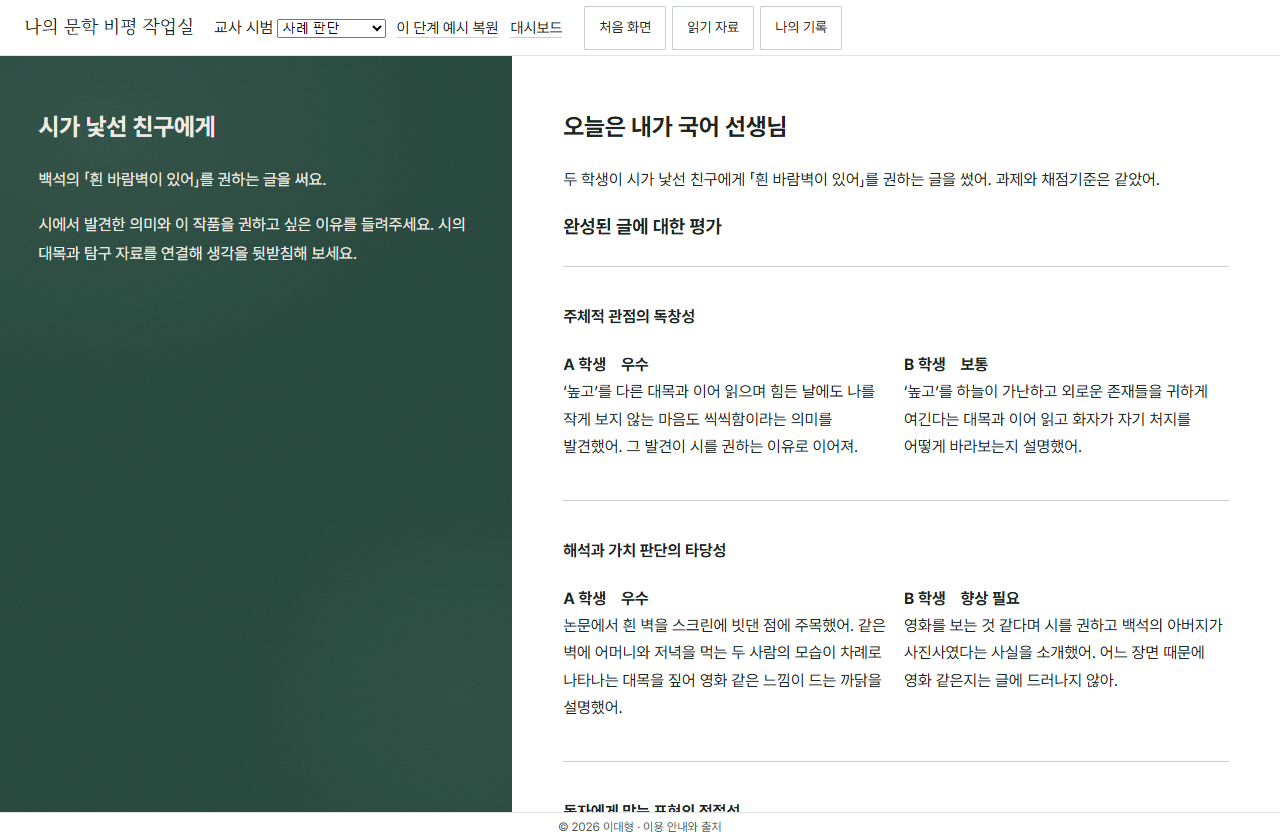
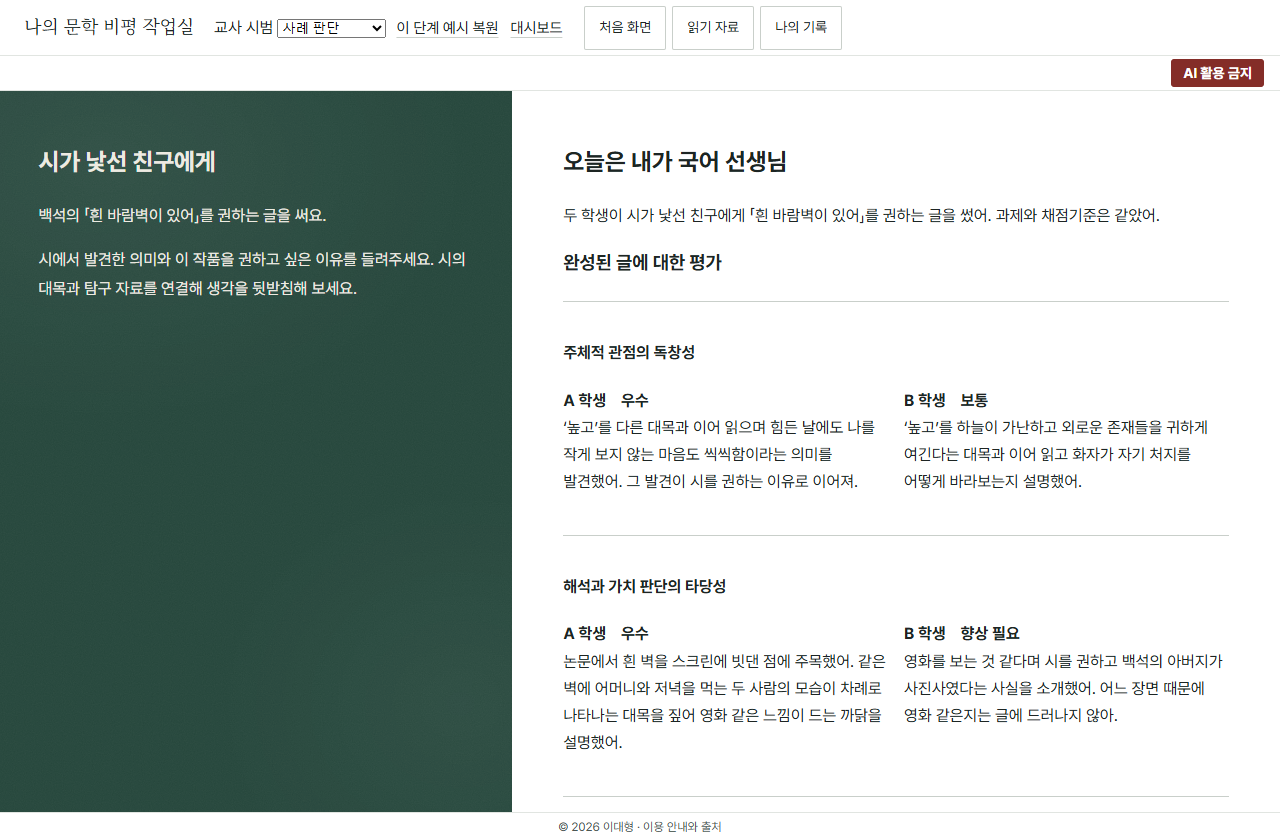
교사 AI 활용 규칙과 대시보드 작성 기록 안내

diff --git a/index.html b/index.html
@@ -1,10 +1,11 @@
 <!doctype html>
 <html lang="ko"><head><meta charset="utf-8"><meta name="viewport" content="width=device-width,initial-scale=1"><meta name="description" content="백석의 시를 읽고 친구에게 추천하는 비평문 쓰기. 학교별 템플릿과 교사용 설치 안내."><title>나의 문학 비평 작업실 · 교사용 배포판</title><link href="./style.css" rel="stylesheet"></head>
-<body><header><a href="#top">나의 문학 비평 작업실</a><nav aria-label="페이지 메뉴"><a href="#why">제작 배경</a><a href="#screens">화면 체험</a><a href="#lesson">수업 흐름</a><a href="#install">학교 설치</a><a href="#faq">자주 묻는 질문</a></nav></header>
+<body><header><a href="#top">나의 문학 비평 작업실</a><nav aria-label="페이지 메뉴"><a href="#why">제작 배경</a><a href="#screens">화면 체험</a><a href="#lesson">수업 흐름</a><a href="#records">작성 기록</a><a href="#install">학교 설치</a><a href="#faq">자주 묻는 질문</a></nav></header>
 <main id="top"><section class="hero"><div><p class="tag">교사용 배포판</p><h1>나의 문학<br>비평 작업실</h1><p class="lead">시가 낯선 친구에게 백석의 「흰 바람벽이 있어」를 권한다면, 어떤 대목을 함께 읽고 싶나요?</p><a class="primary" href="#install">우리 학교에 설치하기 ↓</a> <a class="text" href="#screens">학생 화면 둘러보기 ↓</a></div><figure><a href="./model-plan.png" aria-label="교사 시범 편집기 화면 크게 보기"><img src="./model-plan.png" width="1240" height="820" alt="글 설계하기 화면에서 ‘높고’에 관한 내 답과 앞서 고른 근거를 한눈에 살펴보는 교사 시범"></a><figcaption>교사 시범 화면 · 글 설계하기</figcaption></figure></section>
-<section id="why"><p class="tag">제작 배경</p><h2>‘높고’에서 멈춘 순간을<br>비평문의 첫 문장까지</h2><div class="columns"><p>“가난하고 외로운데 왜 높다고 했을까?” 시를 읽다 이런 물음이 생겨도, 막상 비평문을 쓰려면 무엇부터 말해야 할지 막막합니다. 작업실은 학생이 처음 품은 질문을 글 끝까지 가져갈 수 있도록 만들었습니다.</p><p>시구와 자료를 담을 때는 그 옆에 내 해석을 적고, 초고를 쓸 때는 그 근거를 곁에 펼쳐 둡니다. 교사는 완성된 글과 함께 학생이 무엇을 골랐고 어디에서 생각을 바꿨는지도 살펴볼 수 있습니다.</p></div><h3>수업에서 출발한 세 가지 설계</h3><ol class="flow"><li><h3>읽은 자리로 돌아가기</h3><p>쓰다가 생각이 막히면 시와 자료를 다시 펼칩니다. 앞서 골라 둔 대목이 자기 판단과 어울리는지 확인할 수 있습니다.</p></li><li><h3>판단 기준 먼저 나누기</h3><p>글을 쓰기 전에 같은 예시를 채점해 봅니다. 서로 다르게 읽은 문장을 짚으며 ‘근거가 분명하다’는 말의 뜻을 맞춰 갑니다.</p></li><li><h3>고쳐 쓴 이유 남기기</h3><p>AI에게 묻기 전에 어떤 독자의 반응이 필요한지 정합니다. 받은 조언 중 무엇을 받아들일지는 글쓴이가 결정합니다.</p></li></ol></section><section id="screens"><h2>학생과 교사의 화면을 둘러보세요</h2><p>보고 싶은 활동을 고르세요. 학교용 템플릿에 수업용 예시를 넣어 실행한 화면입니다. 이미지를 누르면 크게 볼 수 있습니다.</p><div class="picker" aria-label="미리 볼 활동"><a href="#shot-prep">평가기준 읽기</a><a href="#shot-case">사례 판단</a><a href="#shot-rule">AI 활용 규칙</a><a href="#shot-ask">질문 만들기</a><a href="#shot-find">근거 찾기</a><a href="#shot-plan">글 설계하기</a><a href="#shot-draft">초고 쓰기</a><a href="#shot-feedback">AI에게 묻기</a><a href="#shot-revise">고쳐쓰기</a><a href="#shot-teacher">교사 대시보드</a></div><article class="shot" id="shot-prep"><div><p class="tag">평가기준 읽기</p><h3>어떤 글을 쓰면 친구에게 시가 잘 전해질까요?</h3><p>학생은 세 평가요소를 자기 말로 풀어 쓴 뒤 선생님의 기준과 비교합니다. 예시 글의 수준을 판단하고, 친구와 판단이 갈린 대목을 이야기합니다.</p></div><figure><a href="screens/prep.png"><img loading="lazy" src="screens/prep.png" width="1280" height="840" alt="평가기준 읽기 실제 화면 크게 보기"></a></figure></article><article class="shot" id="shot-case"><div><p class="tag">사례 판단</p><h3>두 글의 점수를 정하려면 무엇을 더 알고 싶나요?</h3><p>가상 학생 두 명의 글과 작성 기록을 읽고 어느 쪽에 더 높은 점수를 줄지 의논합니다. 같은 기록을 보고도 판단이 달라질 수 있는 까닭을 묻습니다.</p></div><figure><a href="screens/case.png"><img loading="lazy" src="screens/case.png" width="1280" height="840" alt="사례 판단 실제 화면 크게 보기"></a></figure></article><article class="shot" id="shot-rule"><div><p class="tag">AI 활용 규칙</p><h3>내가 직접 할 일은 어디까지일까요?</h3><p>앞에서 나눈 사례를 떠올리며 자기 규칙을 씁니다. 시구를 고르는 일, 질문을 만드는 일, 초고에 대해 조언을 구하는 일을 나누어 생각해 봅니다.</p></div><figure><a href="screens/rule.png"><img loading="lazy" src="screens/rule.png" width="1280" height="840" alt="AI 활용 규칙 실제 화면 크게 보기"></a></figure></article><article class="shot" id="shot-ask"><div><p class="tag">질문 만들기</p><h3>왜 ‘가난하고 외롭고’ 다음에 ‘높고’가 올까요?</h3><p>마음에 걸린 시어를 고르고 그 말이 궁금한 까닭을 적습니다. 시범 글을 띄워 ‘높고’를 가리고 읽었을 때와 다시 넣어 읽었을 때의 느낌을 나눠 보세요.</p></div><figure><a href="screens/ask.png"><img loading="lazy" src="screens/ask.png" width="1280" height="840" alt="질문 만들기 실제 화면 크게 보기"></a></figure></article><article class="shot" id="shot-find"><div><p class="tag">근거 찾기</p><h3>내 질문을 들고 어떤 자료를 읽을까요?</h3><p>시에서 찾은 대목을 다른 작품이나 연구 자료와 함께 읽습니다. 글에 쓸 부분을 담고, 이 대목이 내 질문과 어떻게 이어지는지 기록합니다.</p></div><figure><a href="screens/find.png"><img loading="lazy" src="screens/find.png" width="1280" height="840" alt="근거 찾기 실제 화면 크게 보기"></a></figure></article><article class="shot" id="shot-plan"><div><p class="tag">글 설계하기</p><h3>어떤 대목이 내 해석을 뒷받침하나요?</h3><p>시와 자료에서 담아 둔 근거를 펼쳐 보고 내 답과 이어지는 것을 고릅니다. 다른 자료를 읽고 처음 생각이 달라졌다면, 달라진 까닭도 글의 한 갈래가 됩니다.</p></div><figure><a href="screens/plan.png"><img loading="lazy" src="screens/plan.png" width="1280" height="840" alt="글 설계하기 실제 화면 크게 보기"></a></figure></article><article class="shot" id="shot-draft"><div><p class="tag">초고 쓰기</p><h3>시가 낯선 친구에게 첫 문장을 어떻게 건넬까요?</h3><p>한쪽에 글 설계를 펼쳐 두고 다른 쪽에서 초고를 씁니다. 친구에게 들려주고 싶은 대목, 그 대목을 읽은 내 생각, 이 시를 권하고 싶은 이유를 연결합니다.</p></div><figure><a href="screens/draft.png"><img loading="lazy" src="screens/draft.png" width="1280" height="840" alt="초고 쓰기 실제 화면 크게 보기"></a></figure></article><article class="shot" id="shot-feedback"><div><p class="tag">AI에게 묻기</p><h3>친구가 내 글의 어디에서 멈출까요?</h3><p>초고를 스스로 평가한 뒤 AI에게 받고 싶은 피드백을 정합니다. 요청과 초고를 복사해 사용할 수 있어, 글쓴이가 어떤 조언을 구할지 먼저 결정합니다.</p></div><figure><a href="screens/feedback.png"><img loading="lazy" src="screens/feedback.png" width="1280" height="840" alt="AI에게 묻기 실제 화면 크게 보기"></a></figure></article><article class="shot" id="shot-revise"><div><p class="tag">고쳐쓰기</p><h3>어느 문장을 왜 바꿨나요?</h3><p>독자의 질문을 참고해 문장을 고치고 수정한 이유를 남깁니다. 마지막에는 초고에 사용한 평가기준을 다시 펼쳐 자기 글을 살핍니다.</p></div><figure><a href="screens/revise.png"><img loading="lazy" src="screens/revise.png" width="1280" height="840" alt="고쳐쓰기 실제 화면 크게 보기"></a></figure></article><article class="shot" id="shot-teacher"><div><p class="tag">교사 대시보드</p><h3>오늘 누구와 어떤 이야기를 나눌까요?</h3><p>학급 현황에서 학생의 작업 단계를 살피고 개별 글을 열어 봅니다. ‘학생 화면으로 시범 쓰기’를 누르면 교사용 예시로 수업 장면을 직접 보여 줄 수 있습니다.</p></div><figure><a href="screens/teacher.png"><img loading="lazy" src="screens/teacher.png" width="1280" height="840" alt="교사 대시보드 실제 화면 크게 보기"></a></figure></article></section><section id="lesson"><h2>학생은 이렇게 씁니다</h2><ol class="flow"><li><h3>평가기준 함께 읽기</h3><p>세 평가요소의 뜻을 적고 예시 글에 수준을 매깁니다. 두 가상 학생의 작성 기록을 보고 자신의 AI 활용 규칙도 정합니다.</p></li><li><h3>시어에서 근거로</h3><p>마음에 남은 시어로 질문을 만들고 시와 탐구 자료에서 근거를 모읍니다. 글 설계에서 앞서 고른 대목과 메모를 다시 펼쳐 자기 답을 씁니다.</p></li><li><h3>초고에서 고쳐쓰기로</h3><p>초고를 자기평가하고 AI에게 물을 내용을 다듬습니다. 버튼을 누르면 요청과 초고가 함께 복사됩니다. 피드백을 참고해 자기 말로 고친 뒤 다시 평가하고 제출합니다.</p></li></ol>
+<section id="why"><p class="tag">제작 배경</p><h2>‘높고’에서 멈춘 순간을<br>비평문의 첫 문장까지</h2><div class="columns"><p>“가난하고 외로운데 왜 높다고 했을까?” 시를 읽다 이런 물음이 생겨도, 막상 비평문을 쓰려면 무엇부터 말해야 할지 막막합니다. 작업실은 학생이 처음 품은 질문을 글 끝까지 가져갈 수 있도록 만들었습니다.</p><p>시구와 자료를 담을 때는 그 옆에 내 해석을 적고, 초고를 쓸 때는 그 근거를 곁에 펼쳐 둡니다. 교사는 완성된 글과 함께 학생이 무엇을 골랐고 어디에서 생각을 바꿨는지도 살펴볼 수 있습니다.</p></div><h3>수업에서 출발한 세 가지 설계</h3><ol class="flow"><li><h3>읽은 자리로 돌아가기</h3><p>쓰다가 생각이 막히면 시와 자료를 다시 펼칩니다. 앞서 골라 둔 대목이 자기 판단과 어울리는지 확인할 수 있습니다.</p></li><li><h3>판단 기준 먼저 나누기</h3><p>글을 쓰기 전에 같은 예시를 채점해 봅니다. 서로 다르게 읽은 문장을 짚으며 ‘근거가 분명하다’는 말의 뜻을 맞춰 갑니다.</p></li><li><h3>고쳐 쓴 이유 남기기</h3><p>AI에게 묻기 전에 어떤 독자의 반응이 필요한지 정합니다. 받은 조언 중 무엇을 받아들일지는 글쓴이가 결정합니다.</p></li></ol></section><section id="screens"><h2>학생과 교사의 화면을 둘러보세요</h2><p>보고 싶은 활동을 고르세요. 학교용 템플릿에 수업용 예시를 넣어 실행한 화면입니다. 이미지를 누르면 크게 볼 수 있습니다.</p><div class="picker" aria-label="미리 볼 활동"><a href="#shot-prep">평가기준 읽기</a><a href="#shot-case">사례 판단</a><a href="#shot-rule">AI 활용 규칙</a><a href="#shot-ask">질문 만들기</a><a href="#shot-find">근거 찾기</a><a href="#shot-plan">글 설계하기</a><a href="#shot-draft">초고 쓰기</a><a href="#shot-feedback">AI에게 묻기</a><a href="#shot-revise">고쳐쓰기</a><a href="#shot-teacher">교사 대시보드</a></div><article class="shot" id="shot-prep"><div><p class="tag">평가기준 읽기</p><h3>어떤 글을 쓰면 친구에게 시가 잘 전해질까요?</h3><p>학생은 세 평가요소를 자기 말로 풀어 쓴 뒤 선생님의 기준과 비교합니다. 예시 글의 수준을 판단하고, 친구와 판단이 갈린 대목을 이야기합니다.</p></div><figure><a href="screens/prep.png"><img loading="lazy" src="screens/prep.png" width="1280" height="840" alt="평가기준 읽기 실제 화면 크게 보기"></a></figure></article><article class="shot" id="shot-case"><div><p class="tag">사례 판단</p><h3>두 글의 점수를 정하려면 무엇을 더 알고 싶나요?</h3><p>가상 학생 두 명의 글과 작성 기록을 읽고 어느 쪽에 더 높은 점수를 줄지 의논합니다. 같은 기록을 보고도 판단이 달라질 수 있는 까닭을 묻습니다.</p></div><figure><a href="screens/case.png"><img loading="lazy" src="screens/case.png" width="1280" height="840" alt="사례 판단 실제 화면 크게 보기"></a></figure></article><article class="shot" id="shot-rule"><div><p class="tag">AI 활용 규칙</p><h3>내가 직접 할 일은 어디까지일까요?</h3><p>AI를 쓸 수 있는 시점과 부정행위에 관한 교사의 규칙을 읽고, 그 범위에서 자기 약속을 씁니다. 시구를 고르는 일, 질문을 만드는 일, 초고에 대해 조언을 구하는 일을 나누어 생각해 봅니다.</p></div><figure><a href="screens/rule.png"><img loading="lazy" src="screens/rule.png" width="1280" height="840" alt="AI 활용 규칙 실제 화면 크게 보기"></a></figure></article><article class="shot" id="shot-ask"><div><p class="tag">질문 만들기</p><h3>왜 ‘가난하고 외롭고’ 다음에 ‘높고’가 올까요?</h3><p>마음에 걸린 시어를 고르고 그 말이 궁금한 까닭을 적습니다. 시범 글을 띄워 ‘높고’를 가리고 읽었을 때와 다시 넣어 읽었을 때의 느낌을 나눠 보세요.</p></div><figure><a href="screens/ask.png"><img loading="lazy" src="screens/ask.png" width="1280" height="840" alt="질문 만들기 실제 화면 크게 보기"></a></figure></article><article class="shot" id="shot-find"><div><p class="tag">근거 찾기</p><h3>내 질문을 들고 어떤 자료를 읽을까요?</h3><p>시에서 찾은 대목을 다른 작품이나 연구 자료와 함께 읽습니다. 글에 쓸 부분을 담고, 이 대목이 내 질문과 어떻게 이어지는지 기록합니다.</p></div><figure><a href="screens/find.png"><img loading="lazy" src="screens/find.png" width="1280" height="840" alt="근거 찾기 실제 화면 크게 보기"></a></figure></article><article class="shot" id="shot-plan"><div><p class="tag">글 설계하기</p><h3>어떤 대목이 내 해석을 뒷받침하나요?</h3><p>시와 자료에서 담아 둔 근거를 펼쳐 보고 내 답과 이어지는 것을 고릅니다. 다른 자료를 읽고 처음 생각이 달라졌다면, 달라진 까닭도 글의 한 갈래가 됩니다.</p></div><figure><a href="screens/plan.png"><img loading="lazy" src="screens/plan.png" width="1280" height="840" alt="글 설계하기 실제 화면 크게 보기"></a></figure></article><article class="shot" id="shot-draft"><div><p class="tag">초고 쓰기</p><h3>시가 낯선 친구에게 첫 문장을 어떻게 건넬까요?</h3><p>한쪽에 글 설계를 펼쳐 두고 다른 쪽에서 초고를 씁니다. 친구에게 들려주고 싶은 대목, 그 대목을 읽은 내 생각, 이 시를 권하고 싶은 이유를 연결합니다.</p></div><figure><a href="screens/draft.png"><img loading="lazy" src="screens/draft.png" width="1280" height="840" alt="초고 쓰기 실제 화면 크게 보기"></a></figure></article><article class="shot" id="shot-feedback"><div><p class="tag">AI에게 묻기</p><h3>친구가 내 글의 어디에서 멈출까요?</h3><p>초고를 스스로 평가한 뒤 AI에게 받고 싶은 피드백을 정합니다. 요청과 초고를 복사해 사용할 수 있어, 글쓴이가 어떤 조언을 구할지 먼저 결정합니다.</p></div><figure><a href="screens/feedback.png"><img loading="lazy" src="screens/feedback.png" width="1280" height="840" alt="AI에게 묻기 실제 화면 크게 보기"></a></figure></article><article class="shot" id="shot-revise"><div><p class="tag">고쳐쓰기</p><h3>어느 문장을 왜 바꿨나요?</h3><p>독자의 질문을 참고해 문장을 고치고 수정한 이유를 남깁니다. 마지막에는 초고에 사용한 평가기준을 다시 펼쳐 자기 글을 살핍니다.</p></div><figure><a href="screens/revise.png"><img loading="lazy" src="screens/revise.png" width="1280" height="840" alt="고쳐쓰기 실제 화면 크게 보기"></a></figure></article><article class="shot" id="shot-teacher"><div><p class="tag">교사 대시보드</p><h3>오늘 누구와 어떤 이야기를 나눌까요?</h3><p>학급 현황에서 학생의 작업 단계를 살피고 개별 글을 열어 봅니다. ‘학생 화면으로 시범 쓰기’를 누르면 교사용 예시로 수업 장면을 직접 보여 줄 수 있습니다.</p></div><figure><a href="screens/teacher.png"><img loading="lazy" src="screens/teacher.png" width="1280" height="840" alt="교사 대시보드 실제 화면 크게 보기"></a></figure></article></section><section id="lesson"><h2>학생은 이렇게 씁니다</h2><ol class="flow"><li><h3>평가기준 함께 읽기</h3><p>세 평가요소의 뜻을 적고 예시 글에 수준을 매깁니다. 두 가상 학생의 작성 기록을 보고 자신의 AI 활용 규칙도 정합니다.</p></li><li><h3>시어에서 근거로</h3><p>마음에 남은 시어로 질문을 만들고 시와 탐구 자료에서 근거를 모읍니다. 글 설계에서 앞서 고른 대목과 메모를 다시 펼쳐 자기 답을 씁니다.</p></li><li><h3>초고에서 고쳐쓰기로</h3><p>초고를 자기평가하고 AI에게 물을 내용을 다듬습니다. 버튼을 누르면 요청과 초고가 함께 복사됩니다. 피드백을 참고해 자기 말로 고친 뒤 다시 평가하고 제출합니다.</p></li></ol>
 <h2>교사는 이렇게 보여 줍니다</h2><p>교사 대시보드에서 시범 글을 열고 오늘 보여 줄 단계를 고르세요. ‘높고’를 읽고 쓴 예시가 미리 들어 있습니다. 학생들과 다른 해석을 의논하며 직접 수정하거나, 그 단계만 기본 예시로 되돌릴 수 있습니다.</p><p>교사 시범 글은 학생 통계와 분리됩니다. 수업 중 대시보드에서 보이는 작성 시간, 화면 이탈, 복사·붙여넣기 기록은 학생이 어떤 과정을 거쳤는지 대화할 때 참고하세요.</p></section>
-<section id="settings"><h2>교사가 준비하고 조정하는 것</h2><dl><dt>읽을 작품과 자료</dt><dd>학교에서 사용할 시 본문과 논문 발췌를 시트에 등록합니다. 출처와 쪽수를 함께 적어 학생이 근거를 다시 찾을 수 있게 합니다.</dd><dt>학생 명단과 게시 시점</dt><dd>‘학생과 설정 관리’에서 학생을 추가하고 우리 반 글을 언제 열지 정합니다.</dd><dt>짝 피드백</dt><dd>같은 반 학생끼리 글을 읽을 짝을 정합니다. 교사는 초고를 읽고 학생이 다음 문장을 고쳐 쓸 때 생각해 볼 질문을 남길 수 있습니다.</dd></dl></section><section id="install"><h2>우리 학교에 설치하기</h2><p>교사와 학생이 같은 도메인의 Google Workspace 학교 계정을 사용해야 합니다. 학교마다 교사가 소유하는 스프레드시트 사본에 학생 글과 작성 기록이 쌓입니다.</p><a class="primary" href="https://docs.google.com/spreadsheets/d/1bEXWQjVNwDYHrsEMhWZlIVlSxvoptkUUn3ojibRV0r8/copy">학교용 템플릿 사본 만들기 ↗</a>
+<section id="ai-policy"><p class="tag">수업의 AI 사용 기준</p><h2>초고는 스스로 쓰고, AI에게는 독자의 의견을 묻습니다</h2><p><strong>AI는 초고를 직접 쓰고 자기평가를 마친 뒤, ‘AI에게 묻기’에서만 사용할 수 있습니다.</strong> 내 글을 읽은 독자가 어느 대목에서 설명을 더 듣고 싶은지 물어보세요. 질문 만들기, 근거 찾기, 글 설계, 초고 쓰기, 자기평가와 고쳐쓰기는 모두 자기 힘으로 합니다. AI에게 답을 쓰거나 문장을 고쳐 달라고 요청할 수 없습니다.</p><p>선생님은 잦은 화면 이탈, 붙여넣기, 짧은 시간에 글자 수가 급격히 늘어난 구간을 살펴봅니다. 허용된 피드백 활동과 여러분의 설명을 함께 확인합니다. <strong>AI에게 과제를 맡긴 것으로 확인되면 부정행위로 보아 최하점을 받을 수 있습니다.</strong></p><p>점수보다 중요한 것은 여러분의 생각하는 힘입니다. AI가 대신 읽고 쓰면 스스로 질문하고 판단하는 힘을 기를 기회를 놓칩니다. AI의 조언을 잘 쓰려면 먼저 자기 힘으로 읽고, 쓰고, 고쳐 보는 실력을 길러야 합니다.</p><p>학생은 교사의 규칙을 읽고 그 안에서 자신이 지킬 약속을 씁니다. 작업 화면 오른쪽 위에 ‘AI 활용 금지’가 표시되고, 초고와 고쳐쓰기 사이의 ‘AI에게 묻기’에서만 ‘AI 활용 가능 · 초고 피드백만’으로 바뀝니다.</p></section>
+<section id="records"><p class="tag">교사 대시보드</p><h2>학급 현황에서 한 학생의 작성 과정까지</h2><dl><dt>지금 어느 단계에 있나요?</dt><dd>학급별로 접속 중인 학생, 화면이 숨겨진 학생, 초고 작성 중인 학생과 최종 제출 현황을 살핍니다. 학생별 행에는 복사·붙여넣기 횟수와 함께 확인할 작성 구간이 표시됩니다.</dd><dt>글이 언제, 얼마나 바뀌었나요?</dt><dd>학생 상세 화면에서 글자 수 변화 그래프를 봅니다. 확인할 구간에는 전후 글자 수와 기록된 붙여넣기 글자 수가 나옵니다. 복사·붙여넣기, 앱 버튼으로 넣기, 화면 숨김과 학습 종료 횟수를 구분해 볼 수 있습니다.</dd><dt>기록을 수업에서 어떻게 읽나요?</dt><dd>화면 숨김은 작업실 탭이 보이지 않게 된 기록입니다. 방문한 사이트나 클립보드 내용은 수집하지 않습니다. 해당 시점의 질문·근거·초고와 학생이 남긴 설명을 함께 보고 “이때 어느 대목을 고쳤니?”라고 물어보세요. 확인 뒤에는 ‘함께 봤어요’로 표시할 수 있습니다.</dd></dl><figure><a href="screens/record.png"><img loading="lazy" src="screens/record.png" alt="가상 학생의 작성 과정에서 복사·붙여넣기·화면 숨김 횟수와 글자 수 변화 구간을 확인하는 교사 화면"></a><figcaption>학생 상세 · 수업용 가상 학생의 작성 기록</figcaption></figure></section><section id="settings"><h2>교사가 준비하고 조정하는 것</h2><dl><dt>읽을 작품과 자료</dt><dd>학교에서 사용할 시 본문과 논문 발췌를 시트에 등록합니다. 출처와 쪽수를 함께 적어 학생이 근거를 다시 찾을 수 있게 합니다.</dd><dt>학생 명단과 게시 시점</dt><dd>‘학생과 설정 관리’에서 학생을 추가하고 우리 반 글을 언제 열지 정합니다.</dd><dt>짝 피드백</dt><dd>같은 반 학생끼리 글을 읽을 짝을 정합니다. 교사는 초고를 읽고 학생이 다음 문장을 고쳐 쓸 때 생각해 볼 질문을 남길 수 있습니다.</dd></dl></section><section id="install"><h2>우리 학교에 설치하기</h2><p>교사와 학생이 같은 도메인의 Google Workspace 학교 계정을 사용해야 합니다. 학교마다 교사가 소유하는 스프레드시트 사본에 학생 글과 작성 기록이 쌓입니다.</p><a class="primary" href="https://docs.google.com/spreadsheets/d/1bEXWQjVNwDYHrsEMhWZlIVlSxvoptkUUn3ojibRV0r8/copy">학교용 템플릿 사본 만들기 ↗</a>
 <ol class="steps"><li><strong>학교 교사 계정으로 사본을 만드세요.</strong> 사본에는 작업실 프로그램이 함께 들어 있습니다. 시트의 편집 권한은 운영 교사가 관리합니다.</li>
 <li><strong>시트의 ‘작업실 관리 → 처음 설정’을 누르세요.</strong> 처음에는 Google 권한 확인이 필요합니다. 메뉴가 보이지 않으면 시트를 새로고침하세요. 승인 후 시트로 돌아와 처음 설정을 한 번 더 눌러야 할 수 있습니다. 완료 안내를 확인하세요. 실행한 교사와 기본 학급 ‘1반’이 등록됩니다.</li>
 <li><strong>수업 자료를 채우세요.</strong> Works 시트에서 주 작품(W-MAIN)의 bodyText에 행을 나눠 시 본문을 입력하세요. Excerpts에는 겹치지 않는 excerptId, Papers와 일치하는 paperId, 쪽수, excerptText를 넣습니다. 학교에서 사용할 권한이 있는 본문과 발췌문을 등록하세요.</li>
